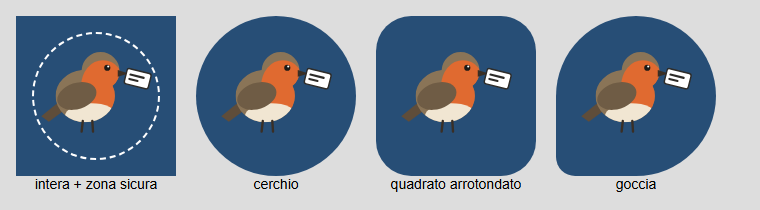
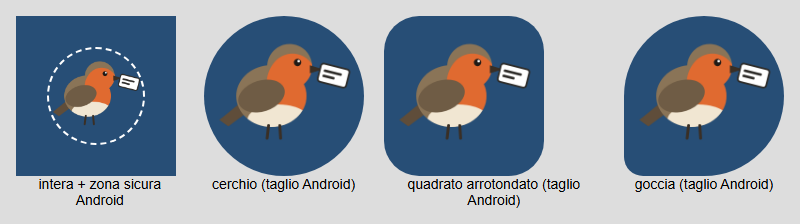
Icona ritagliabile: pettirosso più piccolo per il taglio di Android
Su GrapheneOS etichetta e coda venivano tagliate: Android mostra solo il
66 % centrale dell'icona adattiva, con zona sicura del 61 %. Pettirosso
ridotto al 60 % e test della zona sicura portato a raggio 30,5 %.

diff --git a/tests/e2e/icons.spec.ts b/tests/e2e/icons.spec.ts
@@ -51,7 +51,7 @@ test('manifest: nome, apertura nel browser, icone normali e ritagliabili', async
   }
 });
 
-test('icona ritagliabile: fuori dalla zona sicura (raggio 40 %) c’è solo il fondo', async ({ page }) => {
+test('icona ritagliabile: fuori dalla zona sicura di Android (raggio 30,5 %) c’è solo il fondo', async ({ page }) => {
   await page.goto('/');
   const outside = await page.evaluate(async () => {
     const img = new Image();
@@ -62,7 +62,8 @@ test('icona ritagliabile: fuori dalla zona sicura (raggio 40 %) c’è solo il f
     ctx.drawImage(img, 0, 0);
     const { data } = ctx.getImageData(0, 0, n, n);
     const bg = [0x27, 0x4e, 0x76];
-    const safe = n * 0.4;
+    // Android mostra i 72dp centrali di 108dp; la zona sicura è un cerchio di 66dp (61 %).
+    const safe = n * 0.305;
     let count = 0;
     for (let y = 0; y < n; y++)
       for (let x = 0; x < n; x++) {

diff --git a/docs/2026-11-07-icona-ritagliabile.md b/docs/2026-11-07-icona-ritagliabile.md
@@ -64,3 +64,15 @@ Queste cose vanno provate sulla stampante. Per ora `browser` corregge solo l'ico
   - il manifest, con tipi e dimensioni di ogni icona;
   - la zona sicura: fuori dal cerchio di raggio 40 % i pixel sono solo blu.
 - **Differenza dal piano:** il controllo della zona sicura è un test e2e e non unitario, perché leggere i pixel del PNG è più semplice nel browser.
+
+## Correzione dopo la prova su GrapheneOS (2026-11-07)
+
+- **Prova sul Pixel:** il bordo bianco è sparito, ma etichetta e coda erano un po' tagliate.
+- **Causa:** Vanadium passa l'icona ad Android come icona adattiva nativa:
+  - livello da 108dp, di cui sono visibili i 72dp centrali (66,7 %);
+  - zona sicura: cerchio da 66dp, cioè il **61 %**, più stretto dell'80 % dello standard web.
+- **Correzione:**
+  - pettirosso ridotto al 60 % (`translate(100 76) scale(0.6)`);
+  - il test controlla il cerchio di raggio 30,5 %;
+  - `anteprima-ritagli.png` simula il taglio di Android.
+- **Da verificare di nuovo sul Pixel:** togliere e rimettere l'icona.
